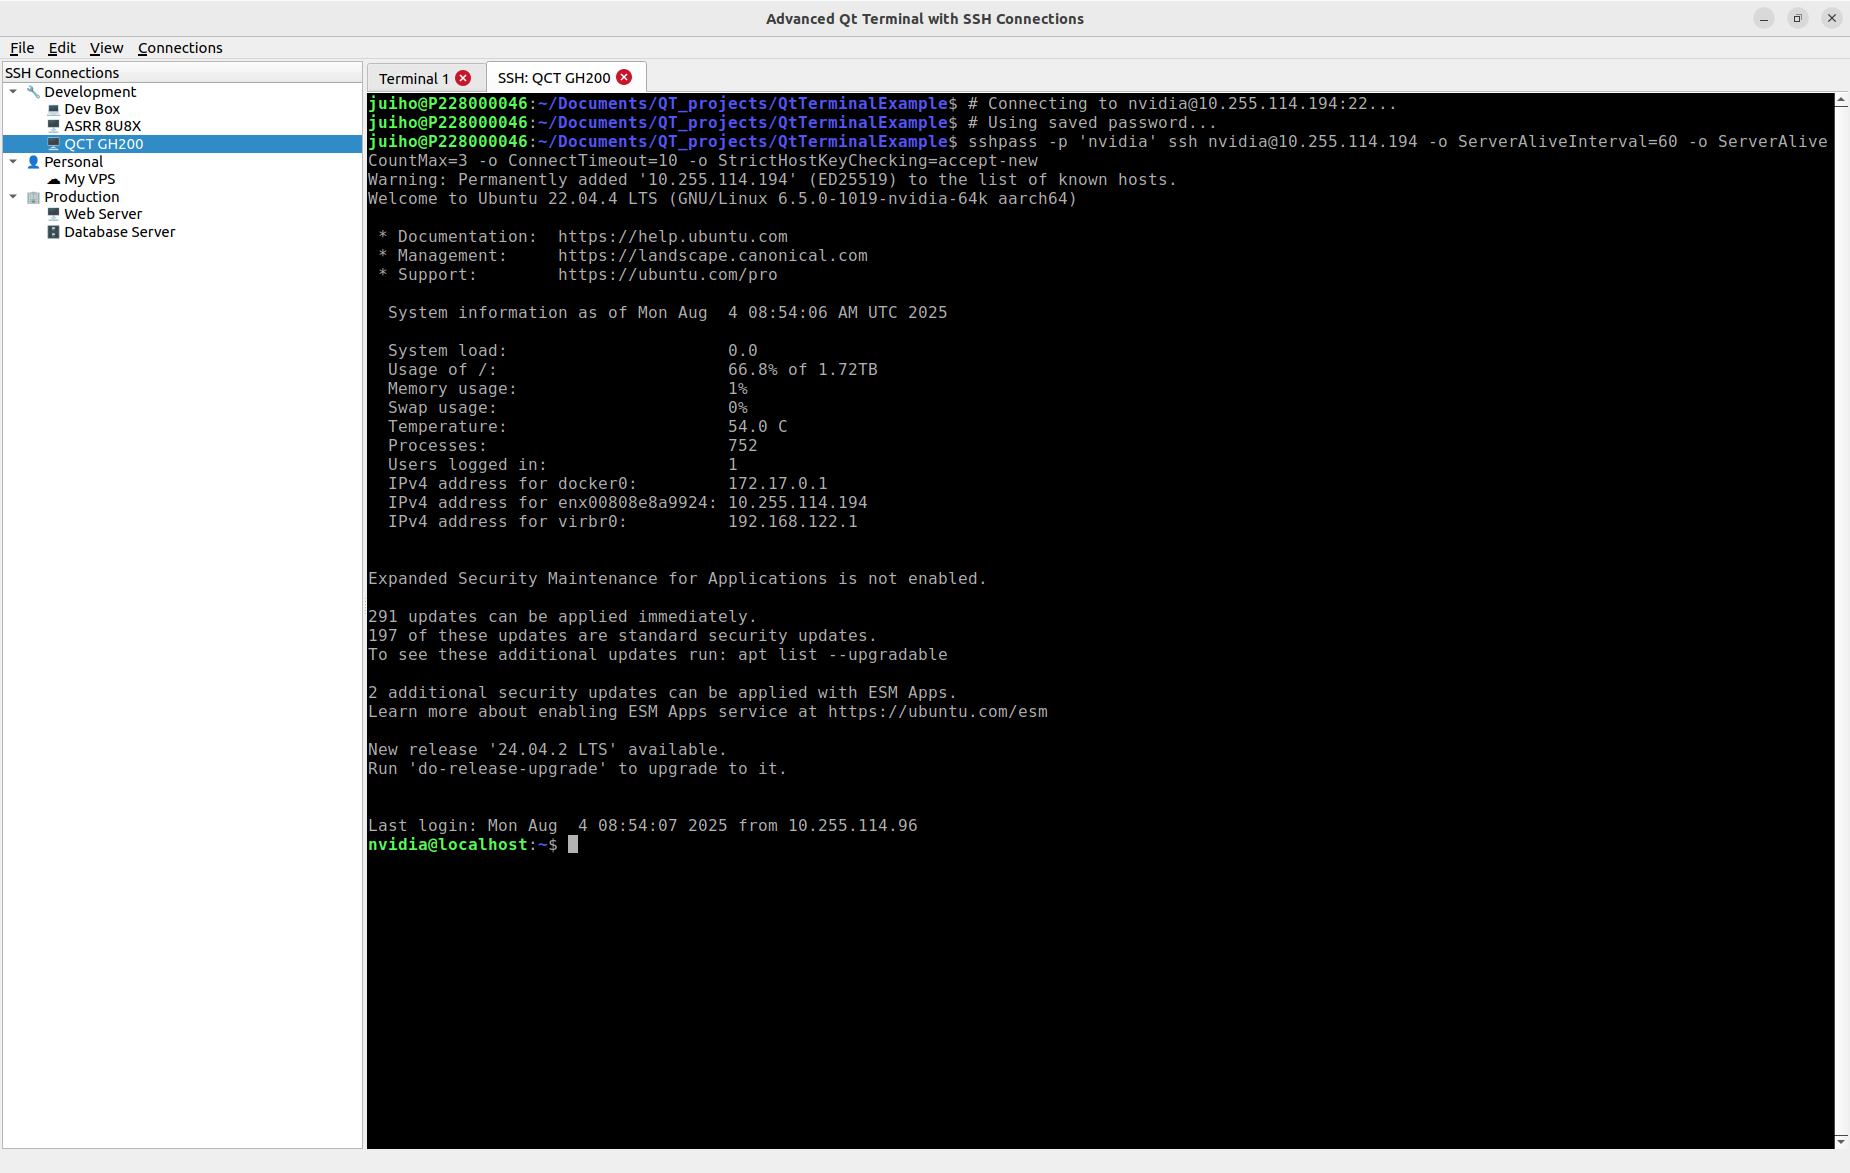
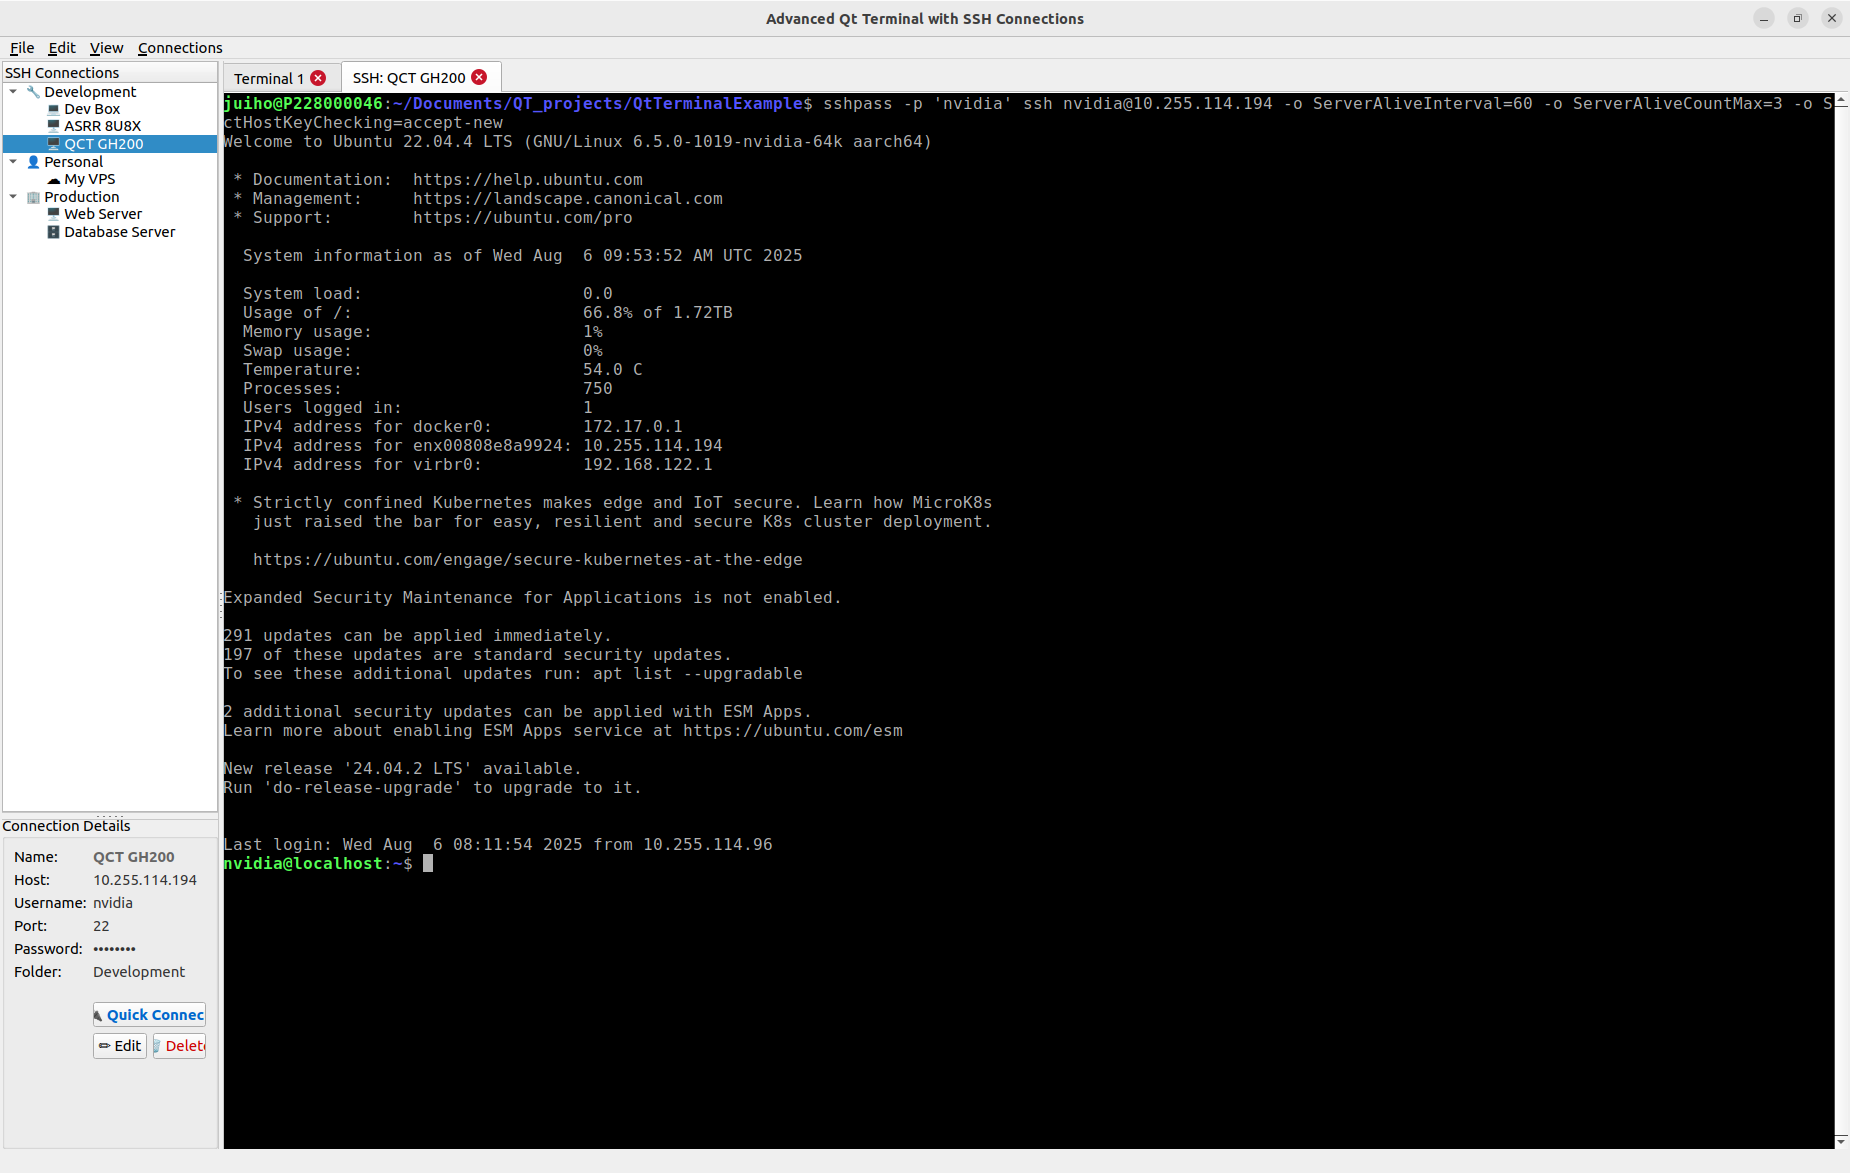
git commit -am "Fix: Show default SSH connections on first run
- Update screenshot
- Add refreshConnectionTree() call in createDefaultConnections()
- Ensures SSH connections tree displays default connections when app runs for the first time
- Previously the tree would appear empty until manual refresh

Changed region(s): [[0.0, 0.0614, 0.9551, 0.9821], [0.4005, 0.3069, 0.4314, 0.3683], [0.493, 0.491, 0.5238, 0.5217]]

diff --git a/terminalwindow.cpp b/terminalwindow.cpp
@@ -732,6 +732,9 @@ void TerminalWindow::createDefaultConnections()
     
     // Save the default connections
     saveConnections();
+    
+    // ADD THIS LINE: Refresh the tree to show the default connections
+    refreshConnectionTree();
 }
 
 void TerminalWindow::loadConnections()
